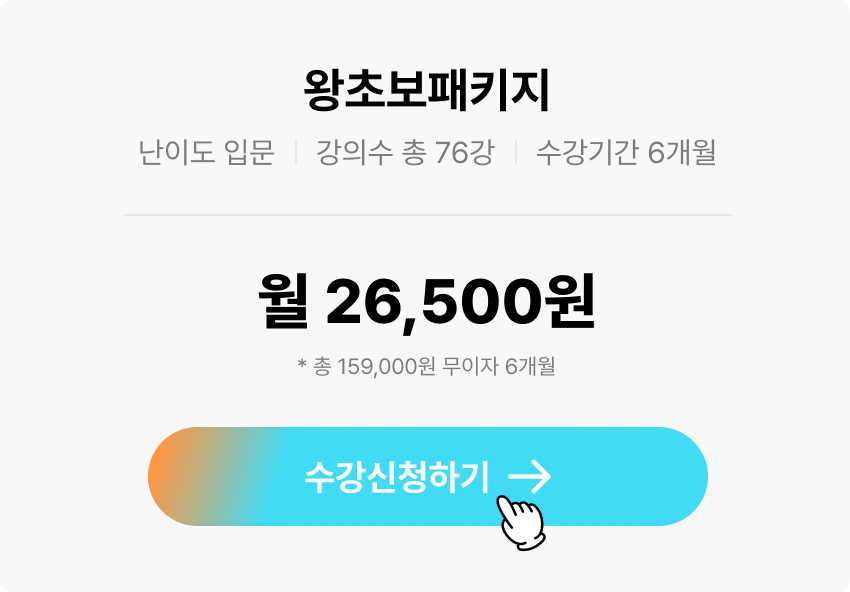
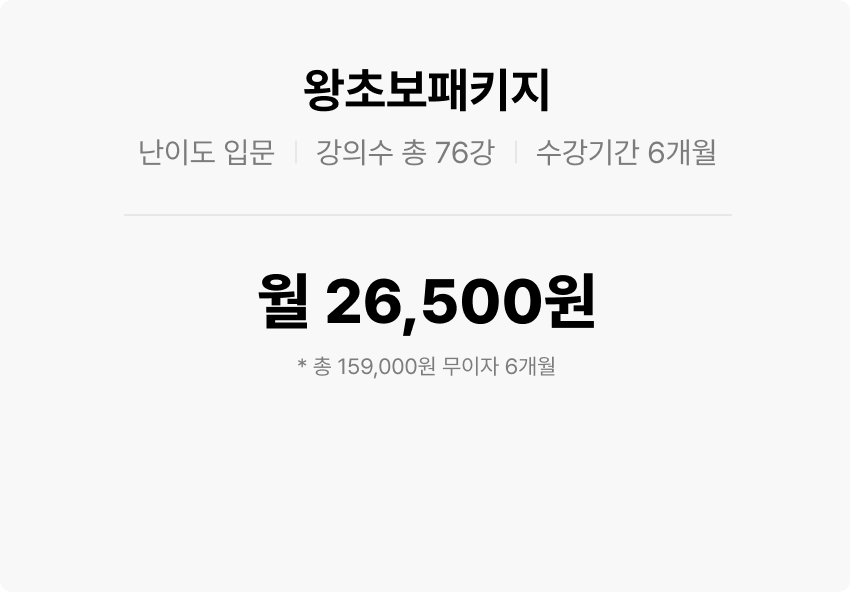
test

Changed region(s): [[0.1529, 0.6993, 0.8565, 0.9426]]

diff --git a/common/css/style.min.css b/common/css/style.min.css
@@ -1,1 +1,1 @@
-[class^=sec_],[class^=sec_] *{-webkit-box-sizing:border-box;box-sizing:border-box}[class^=sec_]::before,[class^=sec_]::after,[class^=sec_] *::before,[class^=sec_] *::after{-webkit-box-sizing:border-box;box-sizing:border-box}[class^=sec_] *,[class^=sec_] * *{-webkit-box-sizing:border-box;box-sizing:border-box}[class^=sec_] *::before,[class^=sec_] *::after,[class^=sec_] * *::before,[class^=sec_] * *::after{-webkit-box-sizing:border-box;box-sizing:border-box}.fixed{z-index:-99;position:fixed !important}.sec_visual_container{overflow:hidden;position:relative;background:#000}.sec_visual_bg{-webkit-user-select:none;-moz-user-select:none;-ms-user-select:none;user-select:none;pointer-events:none;-ms-touch-action:none;touch-action:none}.sec_visual_step{position:absolute;top:0;left:0;width:100%;height:100%}.sec_visual_step_intro{display:-webkit-box;display:-ms-flexbox;display:flex;-webkit-box-pack:center;-ms-flex-pack:center;justify-content:center;-webkit-box-align:center;-ms-flex-align:center;align-items:center;position:absolute;left:0;top:0;width:100%;height:100%;background:rgba(0,0,0,.5)}.sec_visual_step_intro .sec_visual_step_intro_fade{-webkit-animation:sjw_fadein_bottom 1.1s ease-in-out 1 forwards;animation:sjw_fadein_bottom 1.1s ease-in-out 1 forwards}.sec_visual_step_intro p{font-weight:300;font-size:36px;color:#fff;text-align:center;line-height:1;-webkit-transition:all .05s;transition:all .05s}.sec_visual_step_intro p strong{display:block;font-size:128px}.sec_visual_step_end{display:-webkit-box;display:-ms-flexbox;display:flex;-webkit-box-pack:center;-ms-flex-pack:center;justify-content:center;-webkit-box-align:center;-ms-flex-align:center;align-items:center;position:absolute;left:0;top:0;width:100%;height:100%;opacity:0;-webkit-transition:all .05s;transition:all .05s}.sec_visual_step_end p{max-width:1360px;width:100%;margin:0 auto;padding:0 20px;font-size:36px;color:#fff;line-height:1}.sec_visual_step_end p strong{display:block;margin-top:50px;font-weight:900;font-size:92px;line-height:1.2}.sec_visual_step_end p span{color:#f69242}.sec_visual_step_end .balloon-container{position:absolute;top:0;left:0}.sec_visual_step_end .balloon-container .parallax-element .balloon{position:absolute;top:50%;left:50%;margin:-767px 0 50px 0}.sec_needs{position:relative;z-index:2;padding:140px 0;background:#fffbf8}.sec_needs .card{display:-webkit-box;display:-ms-flexbox;display:flex;-webkit-box-pack:justify;-ms-flex-pack:justify;justify-content:space-between;-webkit-box-align:center;-ms-flex-align:center;align-items:center;margin:64px 0 -273px}.sec_needs .card li{overflow:hidden;position:relative;border-radius:12px;opacity:0}.sec_needs .card li p{display:-webkit-box;display:-ms-flexbox;display:flex;-webkit-box-orient:vertical;-webkit-box-direction:normal;-ms-flex-direction:column;flex-direction:column;-webkit-box-pack:end;-ms-flex-pack:end;justify-content:flex-end;-webkit-box-align:start;-ms-flex-align:start;align-items:flex-start;position:absolute;top:0;left:0;z-index:3;width:100%;height:100%;padding:40px;font-weight:500;font-size:24px;color:#fff;line-height:1.5}.sec_needs .card li p strong{display:block;padding-bottom:12px;font-weight:800;font-size:32px;line-height:1.25}.sec_needs .card li img{position:relative;z-index:1;-webkit-transition:all .3s;transition:all .3s}.sec_needs .card li::after{content:"";display:block;position:absolute;top:0;left:0;z-index:2;width:100%;height:100%;background:-webkit-gradient(linear, left bottom, left top, color-stop(-31.96%, #000000), color-stop(54.24%, rgba(0, 0, 0, 0)));background:linear-gradient(360deg, #000000 -31.96%, rgba(0, 0, 0, 0) 54.24%)}.sec_needs .card li:hover img{-webkit-transform:scale(1.05);transform:scale(1.05)}.sec_needs.active .card li{-webkit-animation:sjw_fadein_top 1.1s ease-in-out 1 forwards;animation:sjw_fadein_top 1.1s ease-in-out 1 forwards}.sec_needs.active .card li:nth-child(2){-webkit-animation:sjw_fadein_bottom 1.1s ease-in-out 1 forwards;animation:sjw_fadein_bottom 1.1s ease-in-out 1 forwards}.sec_step{padding:334px 0 100px;background:#fff}.sec_step .card{display:-webkit-box;display:-ms-flexbox;display:flex;-webkit-box-pack:justify;-ms-flex-pack:justify;justify-content:space-between;-webkit-box-align:center;-ms-flex-align:center;align-items:center;margin-top:64px}.sec_step .card li{overflow:hidden;width:315px;height:298px;background:no-repeat 0 0;text-indent:-9999em;-webkit-transition:all .3s;transition:all .3s}.sec_step .card li:nth-child(1){background-image:url("../../images/project/sec_step_card1.png")}.sec_step .card li:nth-child(2){background-image:url("../../images/project/sec_step_card2.png")}.sec_step .card li:nth-child(3){background-image:url("../../images/project/sec_step_card3.png")}.sec_step .card li:nth-child(4){background-image:url("../../images/project/sec_step_card4.png")}.sec_step .card li.on:nth-child(1),.sec_step .card li:hover:nth-child(1){background-image:url("../../images/project/sec_step_card1_on.png")}.sec_step .card li.on:nth-child(2),.sec_step .card li:hover:nth-child(2){background-image:url("../../images/project/sec_step_card2_on.png")}.sec_step .card li.on:nth-child(3),.sec_step .card li:hover:nth-child(3){background-image:url("../../images/project/sec_step_card3_on.png")}.sec_step .card li.on:nth-child(4),.sec_step .card li:hover:nth-child(4){background-image:url("../../images/project/sec_step_card4_on.png")}.sec_step .box{display:-webkit-box;display:-ms-flexbox;display:flex;-webkit-box-pack:justify;-ms-flex-pack:justify;justify-content:space-between;-webkit-box-align:center;-ms-flex-align:center;align-items:center;height:180px;margin-top:20px;padding:0 120px;border-radius:12px;background:#222}.sec_step .box .text{display:-webkit-box;display:-ms-flexbox;display:flex;-webkit-box-pack:start;-ms-flex-pack:start;justify-content:flex-start;-webkit-box-align:center;-ms-flex-align:center;align-items:center}.sec_step .box .text .calendar{width:70px;margin-right:40px}.sec_step .box .text p{font-weight:400;font-size:32px;color:#fff;text-align:left;line-height:1.43}.sec_step .box .btn{display:-webkit-box;display:-ms-flexbox;display:flex;-webkit-box-pack:center;-ms-flex-pack:center;justify-content:center;-webkit-box-align:center;-ms-flex-align:center;align-items:center;overflow:hidden;position:relative;width:300px;height:80px;border:3px solid #fff;border-radius:100px;font-weight:700;font-size:24px;color:#fff;text-align:left;-webkit-transition:all .3s;transition:all .3s}.sec_step .box .btn img{margin-left:20px}.sec_step .box .btn:hover{border-color:#f69242;background:#f69242}.sec_lec{overflow:hidden;padding:100px 0 150px;background:#fff}.sec_lec .sec_tit_comm .sl{display:inline-block;vertical-align:text-bottom}.sec_lec .sec_tit_comm .sl .swiper-container{overflow:hidden;height:78px}.sec_lec .sec_tit_comm .sl .swiper-container .txt1{color:#fabe37}.sec_lec .sec_tit_comm .sl .swiper-container .txt2{color:#f69242}.sec_lec .sec_tit_comm .sl .swiper-container .txt3{color:#fa5637}.sec_lec .cont{position:relative;margin-top:62px}.sec_lec .cont .swiper-container{width:calc(100% - 250px);margin-left:250px}.sec_lec .cont .swiper-container .swiper-slide{width:820px;margin-left:20px}.sec_lec .cont .swiper-container .swiper-slide img{width:100%}.sec_lec .cont .swiper-container .swiper-slide a{display:block;position:relative}.sec_lec .cont .swiper-container .swiper-slide a::after{content:"";display:block;position:absolute;top:0;left:0;width:100%;height:100%;background:rgba(0,0,0,.5) url("../../images/project/ico_play.svg") no-repeat center center/80px auto}.sec_lec .cont .swiper-container .swiper-slide .txt{margin-top:29px;font-weight:400;font-size:28px;color:#666;text-align:center}.sec_lec .cont .swiper-container .swiper-slide .txt b{display:block;font-size:32px;color:#000}.sec_lec .cont .prev,.sec_lec .cont .next{display:-webkit-box;display:-ms-flexbox;display:flex;-webkit-box-pack:center;-ms-flex-pack:center;justify-content:center;-webkit-box-align:center;-ms-flex-align:center;align-items:center;position:absolute;top:190px;z-index:3;width:80px;height:80px;border-radius:80px;background:#fafafa}.sec_lec .cont .prev img,.sec_lec .cont .next img{width:40px}.sec_lec .cont .prev{left:0}.sec_lec .cont .next{right:0}.sec_map{position:relative;background:#fef1e7}.sec_map .sec_tit_comm{display:-webkit-box;display:-ms-flexbox;display:flex;-webkit-box-orient:vertical;-webkit-box-direction:normal;-ms-flex-direction:column;flex-direction:column;-webkit-box-pack:center;-ms-flex-pack:center;justify-content:center;-webkit-box-align:center;-ms-flex-align:center;align-items:center;position:absolute;top:0;left:0;z-index:3;width:100%;height:100%;padding-bottom:60px}.sec_map .sec_tit_comm p{margin-top:32px}.sec_map .sec_tit_comm p strong{display:inline}.sec_map .sec_tit_comm img{width:773px}.sec_map ul li{position:absolute;left:50%;opacity:0}.sec_map ul li:nth-child(1){top:102px;margin-left:-858px}.sec_map ul li:nth-child(2){top:430px;margin-left:-775px}.sec_map ul li:nth-child(3){top:90px;margin-left:334px}.sec_map ul li:nth-child(4){top:382px;margin-left:422px}.sec_map.active ul li:nth-child(1){-webkit-animation:sjw_fadein_top .8s cubic-bezier(0.175, 0.885, 0.32, 1.275) 1 forwards;animation:sjw_fadein_top .8s cubic-bezier(0.175, 0.885, 0.32, 1.275) 1 forwards}.sec_map.active ul li:nth-child(2){-webkit-animation:sjw_fadein_bottom .8s cubic-bezier(0.175, 0.885, 0.32, 1.275) 1 forwards;animation:sjw_fadein_bottom .8s cubic-bezier(0.175, 0.885, 0.32, 1.275) 1 forwards;-webkit-animation-delay:.3s;animation-delay:.3s}.sec_map.active ul li:nth-child(3){-webkit-animation:sjw_fadein_top .8s cubic-bezier(0.175, 0.885, 0.32, 1.275) 1 forwards;animation:sjw_fadein_top .8s cubic-bezier(0.175, 0.885, 0.32, 1.275) 1 forwards;-webkit-animation-delay:.6s;animation-delay:.6s}.sec_map.active ul li:nth-child(4){-webkit-animation:sjw_fadein_bottom .8s cubic-bezier(0.175, 0.885, 0.32, 1.275) 1 forwards;animation:sjw_fadein_bottom .8s cubic-bezier(0.175, 0.885, 0.32, 1.275) 1 forwards;-webkit-animation-delay:.9s;animation-delay:.9s}.sec_map:hover{cursor:none}.sec_map #airplane{position:absolute;width:108px;height:140px;margin:70px 0 0 0;top:576px;left:50%;z-index:5;background-image:url("../../images/project/airplane.png");background-size:contain;-webkit-transform:translate(-485px, -79px) rotate(-64deg);transform:translate(-485px, -79px) rotate(-64deg);-webkit-transform-origin:center center;transform-origin:center center;-webkit-transition:-webkit-transform .05s;transition:-webkit-transform .05s;transition:transform .05s;transition:transform .05s, -webkit-transform .05s;-webkit-user-select:none;-moz-user-select:none;-ms-user-select:none;user-select:none;pointer-events:none;-ms-touch-action:none;touch-action:none}.sec_career{position:relative;padding:140px 0 210px;background:#fff}.sec_career .tit{display:-webkit-box;display:-ms-flexbox;display:flex;-webkit-box-orient:vertical;-webkit-box-direction:normal;-ms-flex-direction:column;flex-direction:column;-webkit-box-pack:justify;-ms-flex-pack:justify;justify-content:space-between;-webkit-box-align:start;-ms-flex-align:start;align-items:flex-start;height:100px;margin-top:80px;padding-left:20px;border-left:10px solid #ffddc2;font-weight:400;font-size:32px;color:666;text-align:left;line-height:1}.sec_career .tit b{display:block;font-weight:700;font-size:48px;color:#f69242}.sec_career .txt{margin-top:50px;padding:50px 145px;background:#fafafa;font-weight:400;font-size:22px;color:#666;text-align:left;line-height:1.4}.sec_career .txt b{display:block;margin-bottom:10px;font-weight:700;font-size:32px;color:#222}.sec_career .txt button{display:block;position:relative;width:430px;margin-top:38px}.sec_career .txt button img{width:100%}.sec_career .txt button::after{content:"";display:block;position:absolute;top:0;left:0;width:100%;height:100%;background:rgba(0,0,0,.5) url("../../images/project/ico_play.svg") no-repeat center center/42px auto}.sec_career .tch{position:absolute;left:50%;bottom:0;opacity:0;-webkit-user-select:none;-moz-user-select:none;-ms-user-select:none;user-select:none;pointer-events:none;-ms-touch-action:none;touch-action:none}.sec_career.active .tch{-webkit-animation:sjw_fadein_right 1.1s ease-in-out 1 forwards;animation:sjw_fadein_right 1.1s ease-in-out 1 forwards}.sec_review{padding:140px 0;background:#f69242}.sec_review .content-container{display:-webkit-box;display:-ms-flexbox;display:flex;-webkit-box-pack:center;-ms-flex-pack:center;justify-content:center;width:1320px;margin:67px auto 0 auto;padding-left:100px}.sec_review .content-container .left-content{width:440px;margin-right:68px}.sec_review .content-container .left-content ul{position:sticky;top:calc(50% - 235px);left:0;width:440px;height:470px}.sec_review .content-container .left-content ul li{position:absolute;left:0;top:0;opacity:0;-webkit-transition:all .3s;transition:all .3s;-webkit-transform:scaleX(0);transform:scaleX(0)}.sec_review .content-container .left-content ul li.on{opacity:1;-webkit-transform:scaleX(1);transform:scaleX(1)}.sec_review .content-container .right-content{-webkit-box-flex:1;-ms-flex:1;flex:1;font-weight:400;font-size:28px;color:#fff;text-align:left;line-height:1.6}.sec_review .content-container .right-content li{padding:0 5px}.sec_review .content-container .right-content li+li{margin-top:200px}.sec_review .content-container .right-content li span{display:inline-block;position:relative}.sec_review .content-container .right-content li span i{position:relative;z-index:2}.sec_review .content-container .right-content li span::before{content:"";position:absolute;top:50%;left:-5px;z-index:1;width:0;height:90%;background:#000;color:#fff;-webkit-transform:translateY(-50%);transform:translateY(-50%);-webkit-transition:all .6s;transition:all .6s}.sec_review .content-container .right-content li.on span::before{width:calc(100% + 10px)}.sec_review .content-container .right-content li em{display:block;margin-top:22px;font-weight:400;font-size:24px;color:#000;text-align:left;line-height:1.3}.sec_count{background:#000 no-repeat 50% 50%/cover;background-image:url("../../images/project/sec_count_bg1.png"),url("../../images/project/sec_count_bg2.png"),url("../../images/project/sec_count_bg3.png"),url("../../images/project/sec_count_bg4.png"),url("../../images/project/sec_count_bg5.png"),url("../../images/project/sec_count_bg6.png")}.sec_count p{width:100vw;height:100vh;display:-webkit-box;display:-ms-flexbox;display:flex;-webkit-box-pack:center;-ms-flex-pack:center;justify-content:center;-webkit-box-align:center;-ms-flex-align:center;align-items:center;-webkit-box-orient:vertical;-webkit-box-direction:normal;-ms-flex-direction:column;flex-direction:column;font-weight:300;font-size:64px;color:#fff;text-align:center;line-height:1.375}.sec_count p b{margin-top:19px;font-weight:800;font-size:148px;line-height:1.08}.sec_apply{position:relative;padding:130px 0;background:#fff}.sec_apply .box{position:relative;width:850px;margin:57px auto 0 auto}.sec_apply .box button{position:absolute;top:427px;left:50%;width:560px;height:100px;margin-left:-280px}.sec_apply .balloon-container{position:absolute;top:0;left:0;width:100%;height:100%;-webkit-user-select:none;-moz-user-select:none;-ms-user-select:none;user-select:none;pointer-events:none;-ms-touch-action:none;touch-action:none}.sec_apply .balloon-container .balloon{position:absolute;top:65px;left:50%;width:329px;margin-left:330px}/*# sourceMappingURL=style.min.css.map */
+[class^=sec_],[class^=sec_] *{-webkit-box-sizing:border-box;box-sizing:border-box}[class^=sec_]::before,[class^=sec_]::after,[class^=sec_] *::before,[class^=sec_] *::after{-webkit-box-sizing:border-box;box-sizing:border-box}[class^=sec_] *,[class^=sec_] * *{-webkit-box-sizing:border-box;box-sizing:border-box}[class^=sec_] *::before,[class^=sec_] *::after,[class^=sec_] * *::before,[class^=sec_] * *::after{-webkit-box-sizing:border-box;box-sizing:border-box}.fixed{z-index:-99;position:fixed !important}.sec_visual_container{overflow:hidden;position:relative;background:#000}.sec_visual_bg{-webkit-user-select:none;-moz-user-select:none;-ms-user-select:none;user-select:none;pointer-events:none;-ms-touch-action:none;touch-action:none}.sec_visual_step{position:absolute;top:0;left:0;width:100%;height:100%}.sec_visual_step_intro{display:-webkit-box;display:-ms-flexbox;display:flex;-webkit-box-pack:center;-ms-flex-pack:center;justify-content:center;-webkit-box-align:center;-ms-flex-align:center;align-items:center;position:absolute;left:0;top:0;width:100%;height:100%;background:rgba(0,0,0,.5)}.sec_visual_step_intro .sec_visual_step_intro_fade{-webkit-animation:sjw_fadein_bottom 1.1s ease-in-out 1 forwards;animation:sjw_fadein_bottom 1.1s ease-in-out 1 forwards}.sec_visual_step_intro p{font-weight:300;font-size:36px;color:#fff;text-align:center;line-height:1;-webkit-transition:all .05s;transition:all .05s}.sec_visual_step_intro p strong{display:block;font-size:128px}.sec_visual_step_end{display:-webkit-box;display:-ms-flexbox;display:flex;-webkit-box-pack:center;-ms-flex-pack:center;justify-content:center;-webkit-box-align:center;-ms-flex-align:center;align-items:center;position:absolute;left:0;top:0;width:100%;height:100%;opacity:0;-webkit-transition:all .05s;transition:all .05s}.sec_visual_step_end p{max-width:1360px;width:100%;margin:0 auto;padding:0 20px;font-size:36px;color:#fff;line-height:1}.sec_visual_step_end p strong{display:block;margin-top:50px;font-weight:900;font-size:92px;line-height:1.2}.sec_visual_step_end p span{color:#f69242}.sec_visual_step_end .balloon-container{position:absolute;top:0;left:0}.sec_visual_step_end .balloon-container .parallax-element .balloon{position:absolute;top:50%;left:50%;margin:-767px 0 50px 0}.sec_needs{position:relative;z-index:2;padding:140px 0;background:#fffbf8}.sec_needs .card{display:-webkit-box;display:-ms-flexbox;display:flex;-webkit-box-pack:justify;-ms-flex-pack:justify;justify-content:space-between;-webkit-box-align:center;-ms-flex-align:center;align-items:center;margin:64px 0 -273px}.sec_needs .card li{overflow:hidden;position:relative;border-radius:12px;opacity:0}.sec_needs .card li p{display:-webkit-box;display:-ms-flexbox;display:flex;-webkit-box-orient:vertical;-webkit-box-direction:normal;-ms-flex-direction:column;flex-direction:column;-webkit-box-pack:end;-ms-flex-pack:end;justify-content:flex-end;-webkit-box-align:start;-ms-flex-align:start;align-items:flex-start;position:absolute;top:0;left:0;z-index:3;width:100%;height:100%;padding:40px;font-weight:500;font-size:24px;color:#fff;line-height:1.5}.sec_needs .card li p strong{display:block;padding-bottom:12px;font-weight:800;font-size:32px;line-height:1.25}.sec_needs .card li img{position:relative;z-index:1;-webkit-transition:all .3s;transition:all .3s}.sec_needs .card li::after{content:"";display:block;position:absolute;top:0;left:0;z-index:2;width:100%;height:100%;background:-webkit-gradient(linear, left bottom, left top, color-stop(-31.96%, #000000), color-stop(54.24%, rgba(0, 0, 0, 0)));background:linear-gradient(360deg, #000000 -31.96%, rgba(0, 0, 0, 0) 54.24%)}.sec_needs .card li:hover img{-webkit-transform:scale(1.05);transform:scale(1.05)}.sec_needs.active .card li{-webkit-animation:sjw_fadein_top 1.1s ease-in-out 1 forwards;animation:sjw_fadein_top 1.1s ease-in-out 1 forwards}.sec_needs.active .card li:nth-child(2){-webkit-animation:sjw_fadein_bottom 1.1s ease-in-out 1 forwards;animation:sjw_fadein_bottom 1.1s ease-in-out 1 forwards}.sec_step{padding:334px 0 100px;background:#fff}.sec_step .card{display:-webkit-box;display:-ms-flexbox;display:flex;-webkit-box-pack:justify;-ms-flex-pack:justify;justify-content:space-between;-webkit-box-align:center;-ms-flex-align:center;align-items:center;margin-top:64px}.sec_step .card li{overflow:hidden;width:315px;height:298px;background:no-repeat 0 0;text-indent:-9999em;-webkit-transition:all .3s;transition:all .3s}.sec_step .card li:nth-child(1){background-image:url("../../images/project/sec_step_card1.png")}.sec_step .card li:nth-child(2){background-image:url("../../images/project/sec_step_card2.png")}.sec_step .card li:nth-child(3){background-image:url("../../images/project/sec_step_card3.png")}.sec_step .card li:nth-child(4){background-image:url("../../images/project/sec_step_card4.png")}.sec_step .card li.on:nth-child(1),.sec_step .card li:hover:nth-child(1){background-image:url("../../images/project/sec_step_card1_on.png")}.sec_step .card li.on:nth-child(2),.sec_step .card li:hover:nth-child(2){background-image:url("../../images/project/sec_step_card2_on.png")}.sec_step .card li.on:nth-child(3),.sec_step .card li:hover:nth-child(3){background-image:url("../../images/project/sec_step_card3_on.png")}.sec_step .card li.on:nth-child(4),.sec_step .card li:hover:nth-child(4){background-image:url("../../images/project/sec_step_card4_on.png")}.sec_step .box{display:-webkit-box;display:-ms-flexbox;display:flex;-webkit-box-pack:justify;-ms-flex-pack:justify;justify-content:space-between;-webkit-box-align:center;-ms-flex-align:center;align-items:center;height:180px;margin-top:20px;padding:0 120px;border-radius:12px;background:#222}.sec_step .box .text{display:-webkit-box;display:-ms-flexbox;display:flex;-webkit-box-pack:start;-ms-flex-pack:start;justify-content:flex-start;-webkit-box-align:center;-ms-flex-align:center;align-items:center}.sec_step .box .text .calendar{width:70px;margin-right:40px}.sec_step .box .text p{font-weight:400;font-size:32px;color:#fff;text-align:left;line-height:1.43}.sec_step .box .btn{display:-webkit-box;display:-ms-flexbox;display:flex;-webkit-box-pack:center;-ms-flex-pack:center;justify-content:center;-webkit-box-align:center;-ms-flex-align:center;align-items:center;overflow:hidden;position:relative;width:300px;height:80px;border:3px solid #fff;border-radius:100px;font-weight:700;font-size:24px;color:#fff;text-align:left;-webkit-transition:all .3s;transition:all .3s}.sec_step .box .btn img{margin-left:20px}.sec_step .box .btn:hover{border-color:#f69242;background:#f69242}.sec_lec{overflow:hidden;padding:100px 0 150px;background:#fff}.sec_lec .sec_tit_comm .sl{display:inline-block;vertical-align:text-bottom}.sec_lec .sec_tit_comm .sl .swiper-container{overflow:hidden;height:78px}.sec_lec .sec_tit_comm .sl .swiper-container .txt1{color:#fabe37}.sec_lec .sec_tit_comm .sl .swiper-container .txt2{color:#f69242}.sec_lec .sec_tit_comm .sl .swiper-container .txt3{color:#fa5637}.sec_lec .cont{position:relative;margin-top:62px}.sec_lec .cont .swiper-container{width:calc(100% - 250px);margin-left:250px}.sec_lec .cont .swiper-container .swiper-slide{width:820px;margin-left:20px}.sec_lec .cont .swiper-container .swiper-slide img{width:100%}.sec_lec .cont .swiper-container .swiper-slide a{display:block;position:relative}.sec_lec .cont .swiper-container .swiper-slide a::after{content:"";display:block;position:absolute;top:0;left:0;width:100%;height:100%;background:rgba(0,0,0,.5) url("../../images/project/ico_play.svg") no-repeat center center/80px auto}.sec_lec .cont .swiper-container .swiper-slide .txt{margin-top:29px;font-weight:400;font-size:28px;color:#666;text-align:center}.sec_lec .cont .swiper-container .swiper-slide .txt b{display:block;font-size:32px;color:#000}.sec_lec .cont .prev,.sec_lec .cont .next{display:-webkit-box;display:-ms-flexbox;display:flex;-webkit-box-pack:center;-ms-flex-pack:center;justify-content:center;-webkit-box-align:center;-ms-flex-align:center;align-items:center;position:absolute;top:190px;z-index:3;width:80px;height:80px;border-radius:80px;background:#fafafa}.sec_lec .cont .prev img,.sec_lec .cont .next img{width:40px}.sec_lec .cont .prev{left:0}.sec_lec .cont .next{right:0}.sec_map{width:100%;overflow:hidden;position:relative;background:#fef1e7}.sec_map .sec_tit_comm{display:-webkit-box;display:-ms-flexbox;display:flex;-webkit-box-orient:vertical;-webkit-box-direction:normal;-ms-flex-direction:column;flex-direction:column;-webkit-box-pack:center;-ms-flex-pack:center;justify-content:center;-webkit-box-align:center;-ms-flex-align:center;align-items:center;position:absolute;top:0;left:0;z-index:3;width:100%;height:100%;padding-bottom:60px}.sec_map .sec_tit_comm p{margin-top:32px}.sec_map .sec_tit_comm p strong{display:inline}.sec_map .sec_tit_comm img{width:773px}.sec_map ul li{position:absolute;left:50%;opacity:0}.sec_map ul li:nth-child(1){top:102px;margin-left:-858px}.sec_map ul li:nth-child(2){top:430px;margin-left:-775px}.sec_map ul li:nth-child(3){top:90px;margin-left:334px}.sec_map ul li:nth-child(4){top:382px;margin-left:422px}.sec_map.active ul li:nth-child(1){-webkit-animation:sjw_fadein_top .8s cubic-bezier(0.175, 0.885, 0.32, 1.275) 1 forwards;animation:sjw_fadein_top .8s cubic-bezier(0.175, 0.885, 0.32, 1.275) 1 forwards}.sec_map.active ul li:nth-child(2){-webkit-animation:sjw_fadein_bottom .8s cubic-bezier(0.175, 0.885, 0.32, 1.275) 1 forwards;animation:sjw_fadein_bottom .8s cubic-bezier(0.175, 0.885, 0.32, 1.275) 1 forwards;-webkit-animation-delay:.3s;animation-delay:.3s}.sec_map.active ul li:nth-child(3){-webkit-animation:sjw_fadein_top .8s cubic-bezier(0.175, 0.885, 0.32, 1.275) 1 forwards;animation:sjw_fadein_top .8s cubic-bezier(0.175, 0.885, 0.32, 1.275) 1 forwards;-webkit-animation-delay:.6s;animation-delay:.6s}.sec_map.active ul li:nth-child(4){-webkit-animation:sjw_fadein_bottom .8s cubic-bezier(0.175, 0.885, 0.32, 1.275) 1 forwards;animation:sjw_fadein_bottom .8s cubic-bezier(0.175, 0.885, 0.32, 1.275) 1 forwards;-webkit-animation-delay:.9s;animation-delay:.9s}.sec_map:hover{cursor:none}.sec_map #airplane{position:absolute;width:108px;height:140px;margin:70px 0 0 0;top:576px;left:50%;z-index:5;background-image:url("../../images/project/airplane.png");background-size:contain;-webkit-transform:translate(-485px, -79px) rotate(-64deg);transform:translate(-485px, -79px) rotate(-64deg);-webkit-transform-origin:center center;transform-origin:center center;-webkit-transition:-webkit-transform .05s;transition:-webkit-transform .05s;transition:transform .05s;transition:transform .05s, -webkit-transform .05s;-webkit-user-select:none;-moz-user-select:none;-ms-user-select:none;user-select:none;pointer-events:none;-ms-touch-action:none;touch-action:none}.sec_career{overflow:hidden;position:relative;padding:140px 0 210px;background:#fff}.sec_career .tit{display:-webkit-box;display:-ms-flexbox;display:flex;-webkit-box-orient:vertical;-webkit-box-direction:normal;-ms-flex-direction:column;flex-direction:column;-webkit-box-pack:justify;-ms-flex-pack:justify;justify-content:space-between;-webkit-box-align:start;-ms-flex-align:start;align-items:flex-start;height:100px;margin-top:80px;padding-left:20px;border-left:10px solid #ffddc2;font-weight:400;font-size:32px;color:666;text-align:left;line-height:1}.sec_career .tit b{display:block;font-weight:700;font-size:48px;color:#f69242}.sec_career .txt{margin-top:50px;padding:50px 145px;background:#fafafa;font-weight:400;font-size:22px;color:#666;text-align:left;line-height:1.4}.sec_career .txt b{display:block;margin-bottom:10px;font-weight:700;font-size:32px;color:#222}.sec_career .txt button{display:block;position:relative;width:430px;margin-top:38px}.sec_career .txt button img{width:100%}.sec_career .txt button::after{content:"";display:block;position:absolute;top:0;left:0;width:100%;height:100%;background:rgba(0,0,0,.5) url("../../images/project/ico_play.svg") no-repeat center center/42px auto}.sec_career .tch{position:absolute;left:50%;bottom:0;opacity:0;-webkit-user-select:none;-moz-user-select:none;-ms-user-select:none;user-select:none;pointer-events:none;-ms-touch-action:none;touch-action:none}.sec_career.active .tch{-webkit-animation:sjw_fadein_right 1.1s ease-in-out 1 forwards;animation:sjw_fadein_right 1.1s ease-in-out 1 forwards}.sec_review{position:relative;padding:140px 0 200px;background:#f69242}.sec_review .content-container{display:-webkit-box;display:-ms-flexbox;display:flex;-webkit-box-pack:center;-ms-flex-pack:center;justify-content:center;position:relative;z-index:2;width:1320px;margin:67px auto 0 auto;padding-left:100px}.sec_review .content-container .left-content{width:440px;margin-right:68px}.sec_review .content-container .left-content ul{position:sticky;top:calc(50% - 235px);left:0;width:440px;height:470px}.sec_review .content-container .left-content ul li{position:absolute;left:0;top:0;opacity:0;-webkit-transition:all .3s;transition:all .3s;-webkit-transform:scaleX(0);transform:scaleX(0)}.sec_review .content-container .left-content ul li.on{opacity:1;-webkit-transform:scaleX(1);transform:scaleX(1)}.sec_review .content-container .right-content{-webkit-box-flex:1;-ms-flex:1;flex:1;font-weight:400;font-size:28px;color:#fff;text-align:left;line-height:1.6}.sec_review .content-container .right-content li{padding:0 5px}.sec_review .content-container .right-content li+li{margin:100px 0}.sec_review .content-container .right-content li:nth-child(3){margin-bottom:150px}.sec_review .content-container .right-content li span{display:inline-block;position:relative}.sec_review .content-container .right-content li span i{position:relative;z-index:2}.sec_review .content-container .right-content li span::before{content:"";position:absolute;top:50%;left:-5px;z-index:1;width:0;height:90%;background:#000;color:#fff;-webkit-transform:translateY(-50%);transform:translateY(-50%);-webkit-transition:all .6s;transition:all .6s}.sec_review .content-container .right-content li.on span::before{width:calc(100% + 10px)}.sec_review .content-container .right-content li em{display:block;margin-top:22px;font-weight:400;font-size:24px;color:#000;text-align:left;line-height:1.3}.sec_review .scroll{position:absolute;top:140px;left:50%;height:calc(100% - 300px);margin-left:525px;-webkit-user-select:none;-moz-user-select:none;-ms-user-select:none;user-select:none;pointer-events:none;-ms-touch-action:none;touch-action:none}.sec_review .scroll img{position:sticky;top:0}.sec_count{overflow:hidden;background:#000 no-repeat 50% 50%/cover;background-image:url("../../images/project/sec_count_bg1.png"),url("../../images/project/sec_count_bg2.png"),url("../../images/project/sec_count_bg3.png"),url("../../images/project/sec_count_bg4.png"),url("../../images/project/sec_count_bg5.png"),url("../../images/project/sec_count_bg6.png")}.sec_count p{width:100vw;height:100vh;display:-webkit-box;display:-ms-flexbox;display:flex;-webkit-box-pack:center;-ms-flex-pack:center;justify-content:center;-webkit-box-align:center;-ms-flex-align:center;align-items:center;-webkit-box-orient:vertical;-webkit-box-direction:normal;-ms-flex-direction:column;flex-direction:column;font-weight:300;font-size:64px;color:#fff;text-align:center;line-height:1.375}.sec_count p b{margin-top:19px;font-weight:800;font-size:148px;line-height:1.08}.sec_apply{position:relative;padding:130px 0;background:#fff}.sec_apply .box{position:relative;width:850px;margin:57px auto 0 auto}.sec_apply .box button{display:-webkit-box;display:-ms-flexbox;display:flex;-webkit-box-pack:center;-ms-flex-pack:center;justify-content:center;-webkit-box-align:center;-ms-flex-align:center;align-items:center;position:absolute;top:427px;left:50%;width:560px;height:100px;border-bottom:8px solid #ff7d15;border-radius:100px;background:#ff9642;margin-left:-280px;font-weight:700;font-size:36px;color:#fff;text-align:left;-webkit-transition:all .2s;transition:all .2s}.sec_apply .box button img{width:40px;margin-left:14px}.sec_apply .box button.on{border-color:#1fc3df;background-color:#42dbf5}.sec_apply .box button::after{content:"";display:block;position:absolute;top:54px;left:323px;width:108px;height:74px;background:url("../../images/project/ico_hand.svg") no-repeat 0 0;-webkit-animation:sjw_float 1.8s cubic-bezier(0.175, 0.885, 0.32, 1.275) infinite forwards;animation:sjw_float 1.8s cubic-bezier(0.175, 0.885, 0.32, 1.275) infinite forwards}.sec_apply .balloon-container{position:absolute;top:0;left:0;width:100%;height:100%;-webkit-user-select:none;-moz-user-select:none;-ms-user-select:none;user-select:none;pointer-events:none;-ms-touch-action:none;touch-action:none}.sec_apply .balloon-container .balloon{position:absolute;top:65px;left:50%;width:329px;margin-left:330px}/*# sourceMappingURL=style.min.css.map */

diff --git a/common/scss/style.scss b/common/scss/style.scss
@@ -396,6 +396,8 @@
 	}
 
 	&_map {
+		width: 100%;
+		overflow: hidden;
 		position: relative;
 		background: #FEF1E7;
 
@@ -498,6 +500,7 @@
 	}
 
 	&_career {
+		overflow: hidden;
 		position: relative;
 		padding: 140px 0 210px;
 		background: #fff;
@@ -576,12 +579,15 @@
 	}
 
 	&_review {
-		padding: 140px 0;
+		position: relative;
+		padding: 140px 0 200px;
 		background: #F69242;
 
 		.content-container {
 			display: flex;
 			justify-content: center;
+			position: relative;
+			z-index: 2;
 			width: 1320px;
 			margin: 67px auto 0 auto;
 			padding-left: 100px;
@@ -622,7 +628,11 @@
 					padding: 0 5px;
 
 					+ li {
-						margin-top: 200px;
+						margin: 100px 0;
+					}
+
+					&:nth-child(3) {
+						margin-bottom: 150px;
 					}
 
 					span {
@@ -665,11 +675,23 @@
 			}
 		}
 
+		.scroll {
+			position: absolute;
+			top: 140px;
+			left: 50%;
+			height: calc( 100% - 300px );
+			margin-left: 525px;
+			@include disable();
 
-
+			img {
+				position: sticky;
+				top: 0;
+			}
+		}
 	}
 
 	&_count {
+		overflow: hidden;
 		background: #000 no-repeat 50% 50% / cover;
 		background-image: 
 			url('../../images/project/sec_count_bg1.png'),
@@ -708,12 +730,40 @@
 			margin: 57px auto 0 auto;
 
 			button {
+				@include flex(center);
 				position: absolute;
 				top: 427px;
 				left: 50%;
 				width: 560px;
 				height: 100px;
+				border-bottom: 8px solid #ff7d15;
+				border-radius: 100px;
+				background: #ff9642;
 				margin-left: -280px;
+				@include font(700,36px,#fff);
+				transition: all 0.2s;
+
+				img {
+					width: 40px;
+					margin-left: 14px;
+				}
+
+				&.on {
+					border-color: #1FC3DF;
+					 background-color: #42DBF5;
+				}
+
+				&::after {
+					content: '';
+					display: block;
+					position: absolute;
+					top: 54px;
+					left: 323px;
+					width: 108px;
+					height: 74px;
+					background: url('../../images/project/ico_hand.svg') no-repeat 0 0;
+					animation: sjw_float 1.8s cubic-bezier(0.175, 0.885, 0.320, 1.275) infinite forwards;
+				}
 			}
 		}
 
@@ -733,6 +783,5 @@
 				margin-left: 330px;
 			}
 		}
-		
 	}
 }

diff --git a/index.html b/index.html
@@ -291,6 +291,9 @@
 						</li>
 					</ul>
 				</div>
+				<div class="scroll">
+					<img src="images/project/img_scroll.gif" alt="">
+				</div>
 			</article>
 
 			<article class="sec_count sec_count_trigger">
@@ -312,7 +315,10 @@
 					</p>
 					<div class="box">
 						<img src="images/project/sec_apply.png" alt="">
-						<button onclick="alert('수강신청');" title="수강신청하기"></button>
+						<button onclick="alert('수강신청');" class="blink">
+							<span>수강신청하기</span>
+							<img src="images/project/ico_arr.svg" alt="" class="arr" aria-hidden="true">
+						</button>
 					</div>
 
 					<div class="balloon-container parallax-container">
@@ -320,8 +326,6 @@
 							<img class="balloon" src="images/project/sec_vlsual_balloon.png" alt="">
 						</div>
 					</div>
-					
-					
 				</div>
 			</article>
 		</section>

diff --git a/common/js/script.js b/common/js/script.js
@@ -19,6 +19,10 @@ $(() => {
 		},
 	});
 
+	setInterval(function () { 
+		$('.blink').toggleClass('on');
+	},500)
+
 });
 
 /* 유튜브 영상재생(공통) */
@@ -253,7 +257,7 @@ const script = {
 			.on('progress', function (e) {
 				if ( e.progress >= 0 && e.progress < '0.40' ){
 					$('.sec_review .content-container .left-content li').eq(0).addClass('on').siblings().removeClass('on');
-				}else if ( e.progress > '0.33' && e.progress <= '0.75' ) {
+				}else if ( e.progress > '0.40' && e.progress <= '0.66' ) {
 					$('.sec_review .content-container .left-content li').eq(1).addClass('on').siblings().removeClass('on');
 				}else if ( e.progress > '0.66' && e.progress <= 1 ){
 					$('.sec_review .content-container .left-content li').eq(2).addClass('on').siblings().removeClass('on');
